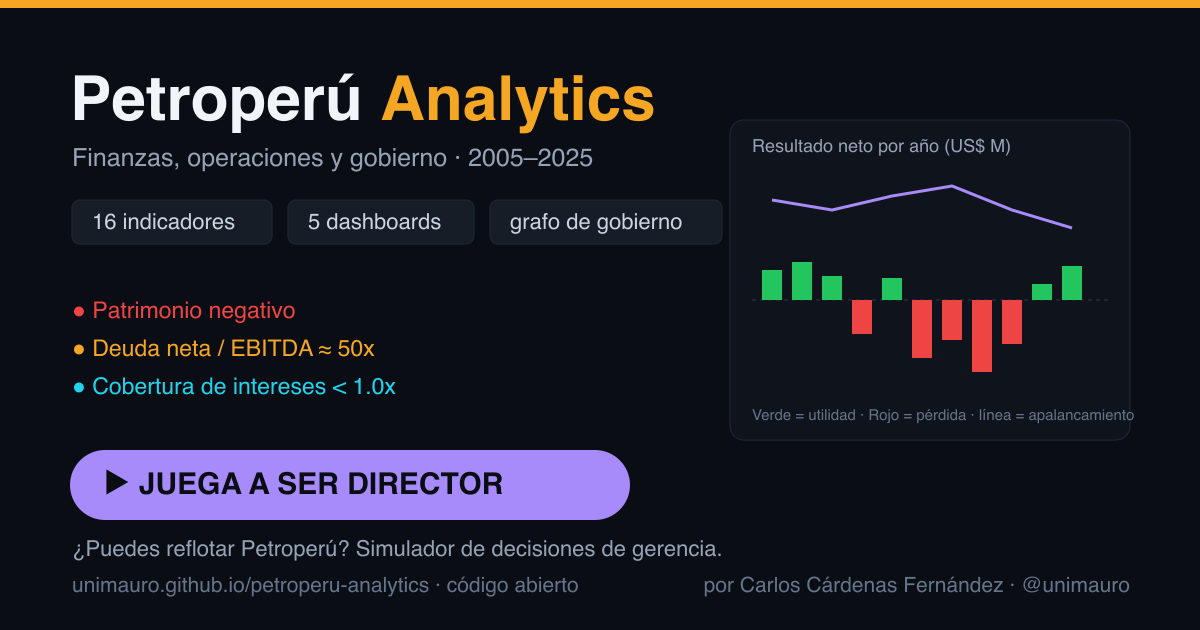
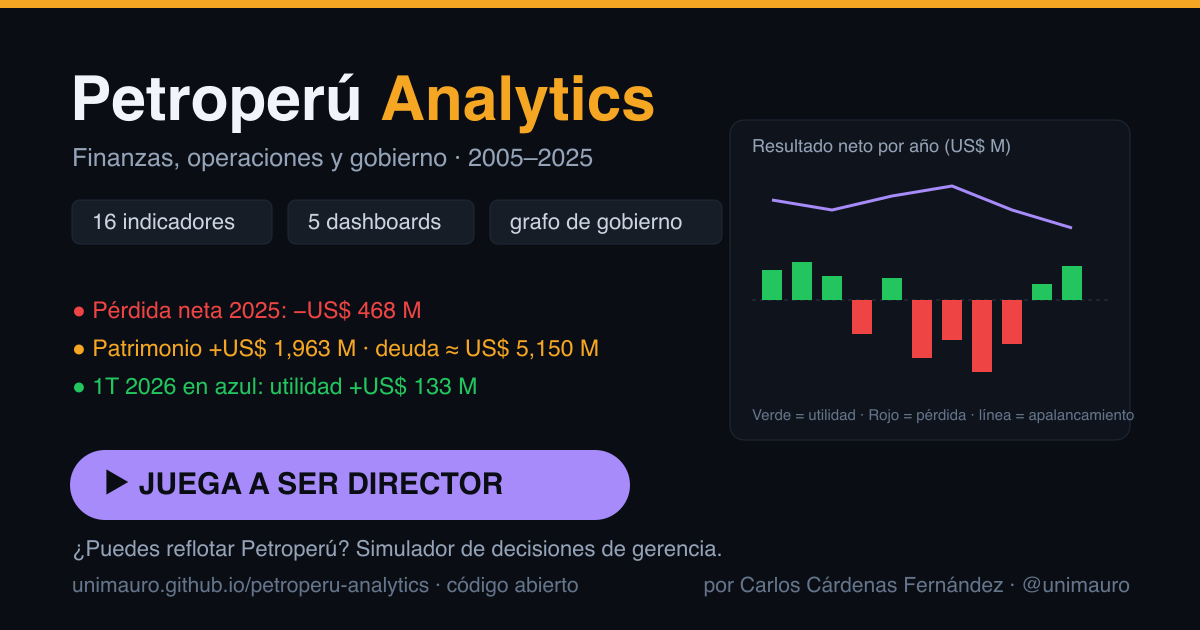
Datos REALES 2023-2025 (EE.FF. auditados) + highlight 1T 2026
- Reemplaza 2023, 2024 y 2025 con cifras auditadas oficiales (US$ miles, fuente SMV/Petroperú)
  2025: ingresos 3,439M, EBITDA aj. +13M, pérdida neta -468M, patrimonio +1,963M, WC -1,558M
  2024: pérdida -774M, EBITDA aj. -296M, patrimonio +2,432M
  2023: pérdida -1,064M, EBITDA aj. -438M
- Corrige relato: patrimonio es POSITIVO (no negativo); presión está en liquidez/cobertura
- Highlight 1T 2026 en Resumen: utilidad +133M, EBITDA +273M (primer trimestre en azul en 4 años)
- Badge 'Datos mixtos': 2023-2025 reales, 2005-2022 ilustrativos; modal y PROVENANCE actualizados
- Convención EBITDA = EBITDA ajustado reportado; OG card corregida con cifras reales
- meta.json: verified_years + latest_quarter

Changed region(s): [[0.0617, 0.4825, 0.4933, 0.573], [0.0617, 0.6032, 0.4008, 0.6333]]

diff --git a/frontend/src/components/DataStatusBadge.tsx b/frontend/src/components/DataStatusBadge.tsx
@@ -10,20 +10,29 @@ interface Props {
  */
 export default function DataStatusBadge({ statuses }: Props) {
   const [open, setOpen] = useState(false);
-  const illustrative = statuses.includes("illustrative");
+  const hasIllustrative = statuses.includes("illustrative");
+  const hasVerified = statuses.includes("verified");
+  const mixed = hasIllustrative && hasVerified;
+
+  const label = mixed
+    ? "◑ Datos mixtos: 2023–2025 reales ⓘ"
+    : hasIllustrative
+      ? "⚠ Datos ilustrativos (demo) ⓘ"
+      : "✓ Datos verificados ⓘ";
+  const cls = hasVerified && !hasIllustrative
+    ? "border-accent-green/40 text-accent-green bg-accent-green/10 hover:bg-accent-green/20"
+    : mixed
+      ? "border-accent-cyan/40 text-accent-cyan bg-accent-cyan/10 hover:bg-accent-cyan/20"
+      : "border-accent-amber/40 text-accent-amber bg-accent-amber/10 hover:bg-accent-amber/20";
 
   return (
     <>
       <button
         onClick={() => setOpen(true)}
-        className={`text-xs px-2.5 py-1 rounded border transition-colors ${
-          illustrative
-            ? "border-accent-amber/40 text-accent-amber bg-accent-amber/10 hover:bg-accent-amber/20"
-            : "border-accent-green/40 text-accent-green bg-accent-green/10 hover:bg-accent-green/20"
-        }`}
+        className={`text-xs px-2.5 py-1 rounded border transition-colors ${cls}`}
         title="Clic para entender el estado de los datos y cómo leer los gráficos"
       >
-        {illustrative ? "⚠ Datos ilustrativos (demo) ⓘ" : "✓ Datos verificados ⓘ"}
+        {label}
       </button>
 
       {open && (
@@ -40,15 +49,16 @@ export default function DataStatusBadge({ statuses }: Props) {
             <h3 className="text-base font-semibold text-slate-100">¿Qué significan los datos?</h3>
 
             <p>
-              <strong className="text-accent-amber">⚠ Datos ilustrativos (demo):</strong> las cifras
-              financieras de este dashboard son de <strong>demostración</strong>. Imitan las tendencias
-              públicas conocidas de Petroperú (caída por la pandemia en 2020, pérdidas de 2022, capex de
-              Talara), pero <strong>no son cifras oficiales</strong> ni deben citarse como tales.
+              <strong className="text-accent-cyan">◑ Datos mixtos.</strong> Los ejercicios{" "}
+              <strong className="text-accent-green">2023, 2024 y 2025 son REALES</strong>, tomados de los
+              Estados Financieros auditados de Petroperú (publicados en su web de inversionistas y la SMV).
+              Además, el <strong>1T 2026</strong> se muestra en el Resumen con cifras oficiales.
             </p>
             <p>
-              Para análisis real, se reemplazan por los <strong>Estados Financieros Auditados</strong> y las
-              Memorias, marcándolas como <span className="text-accent-green">✓ verificadas</span>. Mientras
-              tanto, este aviso permanece visible. Detalle de fuentes en la pestaña <em>Metodología</em>.
+              Los años <strong className="text-accent-amber">2005–2022</strong> siguen siendo{" "}
+              <strong>ilustrativos</strong> (demostración): imitan tendencias conocidas pero no son cifras
+              oficiales. Por eso verás un salto entre 2022 y 2023 (de demo a real). El detalle de fuentes y
+              URLs está en la pestaña <em>Metodología</em>.
             </p>
 
             <hr className="border-ink-600" />

diff --git a/frontend/src/pages/Summary.tsx b/frontend/src/pages/Summary.tsx
@@ -15,6 +15,8 @@ export default function Summary() {
 }
 
 function Content({ rows }: { rows: FinancialRow[] }) {
+  const { meta } = useData();
+  const lq = meta?.latest_quarter;
   const last = latest(rows);
   const netDebtEbitda = last.ebitda > 0 ? (last.total_debt - last.cash) / last.ebitda : null;
   const lossYears = rows.filter((r) => r.net_income < 0).map((r) => r.year);
@@ -74,6 +76,25 @@ function Content({ rows }: { rows: FinancialRow[] }) {
           </div>
         </div>
       </div>
+
+      {/* Highlight del último trimestre (dato más reciente, verificado) */}
+      {lq && (
+        <div className="card border-accent-green/40 bg-accent-green/5">
+          <div className="flex items-start gap-3">
+            <span className="text-2xl">🟢</span>
+            <div className="flex-1">
+              <div className="font-semibold text-accent-green">Lo más reciente · {lq.period} ({lq.as_of})</div>
+              <div className="flex flex-wrap gap-x-6 gap-y-1 text-sm text-slate-300 mt-1">
+                <span>Utilidad neta: <strong className="text-accent-green">+US$ {lq.net_income} M</strong></span>
+                <span>EBITDA ajustado: <strong className="text-accent-green">+US$ {lq.adj_ebitda} M</strong></span>
+                <span>Utilidad bruta: <strong>+US$ {lq.gross_profit} M</strong></span>
+                <span>Ingresos: US$ {lq.revenue} M</span>
+              </div>
+              <div className="text-xs text-slate-500 mt-1.5">{lq.note} · Fuente: {lq.source}</div>
+            </div>
+          </div>
+        </div>
+      )}
 
       {/* KPIs del estado actual */}
       <div className="grid grid-cols-2 lg:grid-cols-3 xl:grid-cols-6 gap-3">

diff --git a/frontend/src/lib/data.ts b/frontend/src/lib/data.ts
@@ -69,11 +69,27 @@ export interface GraphData {
   edges: { source: string; target: string; type: string }[];
 }
 
+export interface LatestQuarter {
+  period: string;
+  as_of: string;
+  currency: string;
+  unit: string;
+  revenue: number;
+  gross_profit: number;
+  operating_profit: number;
+  adj_ebitda: number;
+  net_income: number;
+  note: string;
+  source: string;
+}
+
 export interface Meta {
   generated_by: string;
   macro_status: string;
   years: [number, number];
   n_indicators: number;
+  verified_years?: number[];
+  latest_quarter?: LatestQuarter;
   disclaimer: string;
 }
 

diff --git a/etl/etl_pipeline.py b/etl/etl_pipeline.py
@@ -199,8 +199,22 @@ def run(offline: bool = False) -> None:
         "macro_status": macro.get("status"),
         "years": [min(r["year"] for r in rows), max(r["year"] for r in rows)],
         "n_indicators": 16,
-        "disclaimer": "Cifras financieras marcadas 'illustrative' son de demostración. "
-                      "Ver data/PROVENANCE.md.",
+        "verified_years": sorted(int(r["year"]) for r in fin_raw if r.get("data_status") == "verified"),
+        "latest_quarter": {
+            "period": "1T 2026",
+            "as_of": "31-mar-2026",
+            "currency": "USD", "unit": "millions",
+            "revenue": 770,
+            "gross_profit": 266,
+            "operating_profit": 230,
+            "adj_ebitda": 273,
+            "net_income": 133,
+            "note": "Primer trimestre con utilidad neta positiva en 4 años (desde 1T 2022). "
+                    "Utilidad acumulada a abril 2026: US$208 M; EBITDA: US$395 M.",
+            "source": "Petroperú · Reporte financiero 1T 2026 (inversionistas.petroperu.com.pe)",
+        },
+        "disclaimer": "Cifras 2023–2025 verificadas (EE.FF. auditados). Años previos marcados "
+                      "'illustrative' son de demostración. Ver data/PROVENANCE.md.",
     })
     print("OK")
 

diff --git a/data/PROVENANCE.md b/data/PROVENANCE.md
@@ -25,7 +25,36 @@
 
 | Archivo | Estado | Notas |
 |---|---|---|
-| `seed/petroperu_financials_seed.csv` | `illustrative` | Reemplazar por EE.FF. auditados 2005–presente |
+| `seed/petroperu_financials_seed.csv` | `mixto` | **2023, 2024 y 2025 = REALES** (EE.FF. auditados). 2005–2022 = ilustrativos (pendiente transcribir) |
+
+### Años verificados (fuente primaria)
+
+| Año | Fuente | URL |
+|---|---|---|
+| 2024 y 2023 | EE.FF. auditados 2024-2023 (US$ miles) | https://inversionistas.petroperu.com.pe/wp-content/uploads/2025/07/estados-financieros-2024-2023.pdf |
+| 2025 (4T, anual) | EE.FF. 2025 IV trimestre (US$ miles) | https://inversionistas.petroperu.com.pe/wp-content/uploads/2026/02/estados-financieros-2025-iv-trimestre.pdf |
+| 1T 2026 (highlight) | Reporte financiero 1T 2026 | https://inversionistas.petroperu.com.pe/en/quarterly-earnings-releases/ |
+
+**Validación cruzada:** el capital de trabajo 2025 calculado por el motor (≈ -US$1,558 M) coincide con el
+reportado por Petroperú/prensa (-US$1,562 M), y el patrimonio 2025 (US$1,963 M), activo (US$9,807 M) y
+pérdida neta (-US$468 M) coinciden con los reportes oficiales.
+
+### Convención de EBITDA (importante)
+
+El motor calcula `EBITDA = EBIT + D&A`. Para que el **EBITDA mostrado coincida con el EBITDA Ajustado que
+reporta Petroperú** (que excluye deterioros y otros ingresos/gastos no operativos), en los años verificados
+el campo `depreciation_amortization` se fija como `EBITDA_ajustado_reportado − utilidad_operativa` y `opex`
+como el residual que hace cuadrar la utilidad operativa. Es decir: ingresos, costo de ventas, utilidad bruta,
+utilidad operativa, EBITDA y resultado neto coinciden con las cifras oficiales; el campo D&A absorbe los
+ajustes (no es depreciación pura). La depreciación contable real fue: 2024 ≈ US$260 M, 2023 ≈ US$231 M,
+2025 (PPE) ≈ US$169 M.
+
+> **Dato relevante:** a diferencia de las cifras ilustrativas previas, el **patrimonio real de Petroperú es
+> POSITIVO** (US$1,963 M en 2025; US$2,432 M en 2024) gracias a los aportes de capital del Estado, pese a
+> resultados acumulados negativos. La presión está en la **liquidez** (capital de trabajo negativo) y en una
+> **cobertura de intereses < 1**, no en patrimonio negativo.
+
+| (legacy) `seed` años 2005–2022 | `illustrative` | Reemplazar por EE.FF. auditados |
 | `seed/governance_seed.csv` | `mixed` | Cargos del Estado (Presidentes/Ministros) son verificables; integrantes de directorio Petroperú van marcados `illustrative` donde no se confirmó |
 | `processed/*.json` (BCRP) | `verified-live` | Generado por el ETL desde la API del BCRP cuando hay red |
 